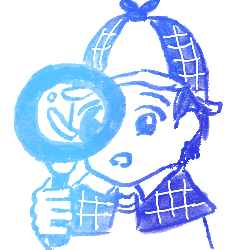
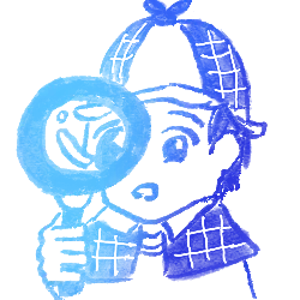
Create padding utility, test it on investigator.webp

diff --git a/img-utils/pad.py b/img-utils/pad.py
@@ -1,0 +1,10 @@
+# The goal of this file is to pad images which reach their borders to have blank pixels around them, matching the images in the old repo
+
+# TODO: figure out how much padding images currently have
+
+
+from PIL import Image, ImageOps
+
+size = (300, 300)
+with Image.open("investigator.webp") as im:
+    ImageOps.pad(im, size, color="#f00").save("investigator_padded.webp")
